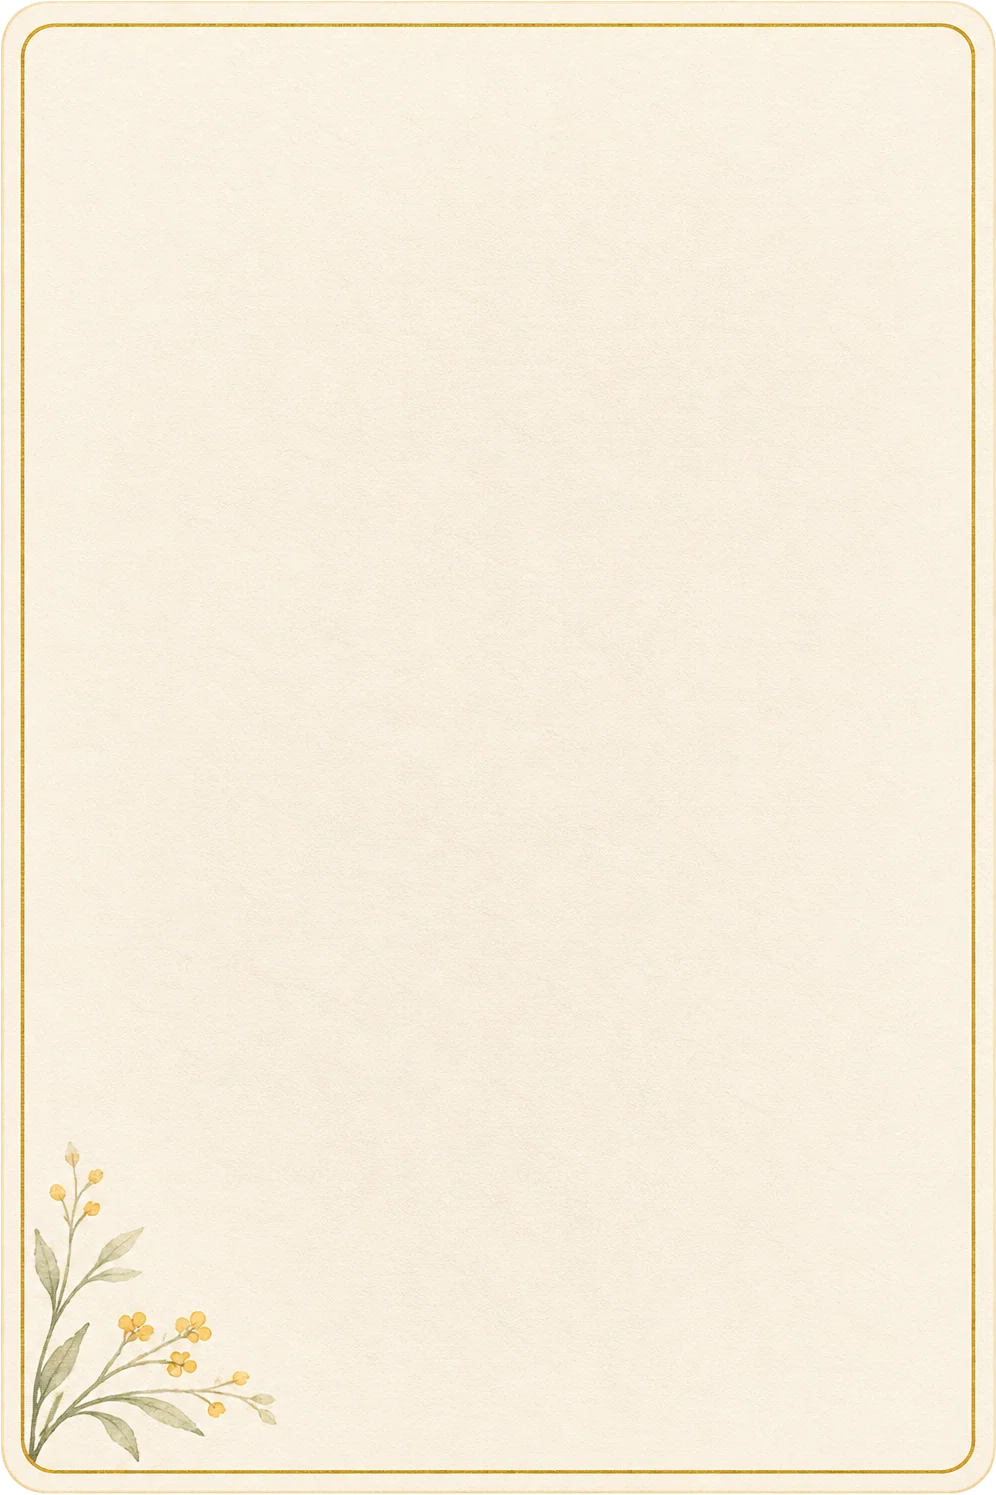
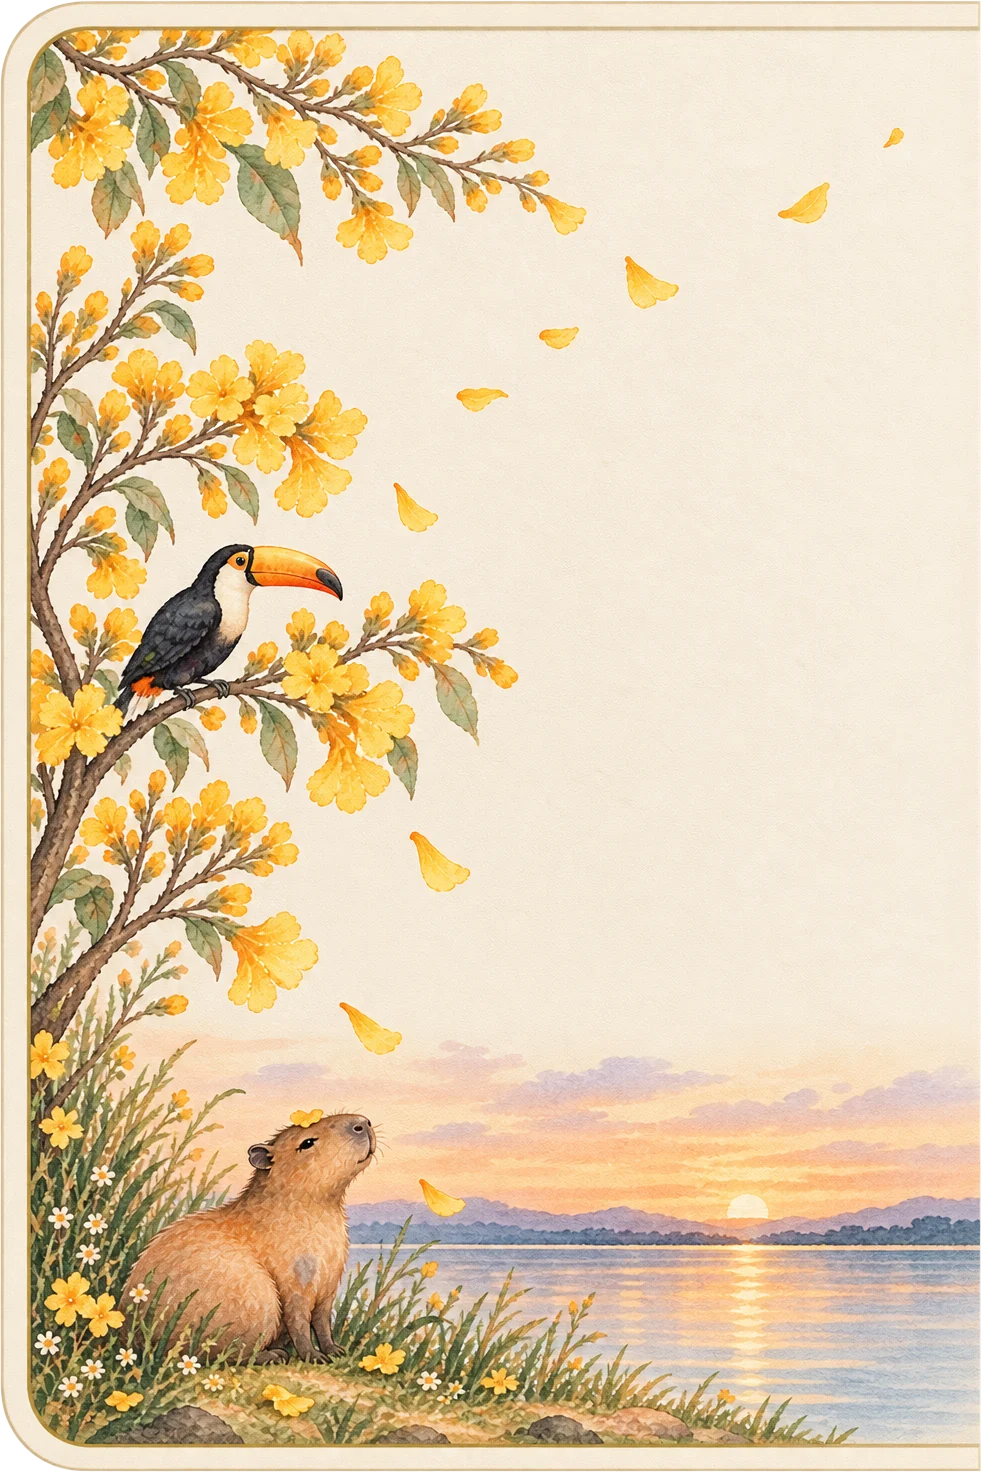
Passport: the final inside-cover art; a matching, art-free back board
- cover-inside.webp is the final art (ipê, toucan, capybara by the lake),
  shaped as the open board: shown as painted on the left board and on the
  cover's inside face — no CSS clipping or rounding of its own.
- back-board.webp: the same board mirrored, rebuilt from the art's turn-in
  band alone (no art can peek past the right pages). Both boards share
  size, band, corners and shadow; the clip on the back board matches the
  art's corner when open and follows the cover's while shut.
- Board and page radii run from the cover's corner (shut) to the board
  art's (open), pages concentric inside; phones keep all-round corners.

diff --git a/src/components/sections/passport/BrasiliaPassport.tsx b/src/components/sections/passport/BrasiliaPassport.tsx
@@ -17,7 +17,9 @@ import { vignetteAt, ease, PHASE, seg, TAB_OUT, type PassportGeometry, type Rect
 import { PassportCover } from './PassportCover'
 import { FlipBook, type FlipBookHandle } from './FlipBook'
 import {
-  Board,
+  BackBoard,
+  BOARD_CORNER,
+  InsideBoard,
   EntriesFrame,
   EntryItem,
   PAPER_BG,
@@ -188,6 +190,13 @@ export function BrasiliaPassport({
       if (!g || !root || !bookEl || !cover || !board || !title || !base || !chrome || !haze) return
       const inside = insideRef.current
       const vignette = vignetteRef.current
+      // Boards from the cover's corner (shut) to the board art's own (open);
+      // the pages concentric inside them.
+      const setRadii = (o: number) => {
+        const boardR = g.radius + (g.coverBox.w * BOARD_CORNER - g.radius) * o
+        bookEl.style.setProperty('--board-r', `${boardR.toFixed(2)}px`)
+        bookEl.style.setProperty('--page-r', `${(boardR - g.overhang).toFixed(2)}px`)
+      }
       const show = (el: HTMLElement | null, o: number) => {
         if (!el) return
         el.style.opacity = String(o)
@@ -204,6 +213,7 @@ export function BrasiliaPassport({
         show(base, 1)
         bookEl.style.setProperty('--bd', '0px')
         bookEl.style.setProperty('--open', '1')
+        setRadii(1)
         bookEl.style.setProperty('--ls', `${((g.overhang * 0.85) / 4).toFixed(2)}px`)
         show(inside, 1)
         chrome.style.opacity = '1'
@@ -287,6 +297,7 @@ export function BrasiliaPassport({
       // (so only a sliver following its curve shows at the bottom); open,
       // they square off to meet their mirror at the spine.
       bookEl.style.setProperty('--sr', `${(g.radius * (1 - o)).toFixed(2)}px`)
+      setRadii(o)
       // The pages too, at the spine, where they meet the cover's edge.
       if (spread)
         bookEl.style.setProperty('--spine-r', `${Math.max(2, g.radius * (1 - o)).toFixed(2)}px`)
@@ -327,7 +338,14 @@ export function BrasiliaPassport({
       // Phones: the inside of the cover is a page of its own, the same board
       // as the one under the pages, its corners round like theirs.
       return spread ? null : (
-        <Board rect={{ x: 0, y: 0, w: W, h: H }} side="right" r0={pageR} spineR={pageR} />
+        // As painted (round at its outer left), and round at the right too,
+        // where a page standing alone has no spine.
+        <div
+          className="absolute inset-0 overflow-hidden"
+          style={{ borderRadius: `0 ${W * BOARD_CORNER}px ${W * BOARD_CORNER}px 0` }}
+        >
+          <InsideBoard rect={{ x: 0, y: 0, w: W, h: H }} />
+        </div>
       )
     }
     const side: Side = spread && i % 2 === 0 ? 'left' : 'right'
@@ -357,10 +375,9 @@ export function BrasiliaPassport({
   const leftLines = spread ? Math.round(read * 4) : 0
   const rightLines = Math.round((1 - read) * 4)
   // Layers under the cover, all with corners concentric with its own: the
-  // pages (radius R - overhang), the page block (four steps reaching just
+  // pages (radius --page-r), the page block (four steps reaching just
   // past the cover's edge) and the back board (a little further).
   const R = g.radius
-  const pageR = R - g.overhang
   // While shut, the back board and the page block peek past the cover
   // (--bd, --ls: set by the scroll, back to flush as the book opens).
   const step = 'var(--ls, 1px)'
@@ -396,9 +413,8 @@ export function BrasiliaPassport({
           top: g.book.y,
           width: g.book.w,
           height: g.book.h,
-          ['--page-r' as string]: `${(g.radius - g.overhang).toFixed(2)}px`,
           // Phones: a page stands alone, round on every corner.
-          ['--spine-r' as string]: spread ? undefined : `${(g.radius - g.overhang).toFixed(2)}px`,
+          ['--spine-r' as string]: spread ? undefined : 'var(--page-r)',
           // Mild, so the turning cover barely grows past the book.
           perspective: W * 14,
           fontSize: g.fontSize,
@@ -438,7 +454,7 @@ export function BrasiliaPassport({
             (exactly where the turned cover came down). */}
         {spread && (
           <div ref={insideRef} className="absolute" style={{ ...box(g.insideBox), opacity: 0 }}>
-            <Board rect={insideRect} side="left" r0={R} />
+            <InsideBoard rect={insideRect} />
             {leftLines > 0 && (
               <div aria-hidden className="pointer-events-none absolute inset-0">
                 <PageStack
@@ -446,7 +462,7 @@ export function BrasiliaPassport({
                   side="left"
                   lines={leftLines}
                   step={step}
-                  r0={pageR}
+                  r0="var(--page-r)"
                 />
               </div>
             )}
@@ -455,20 +471,18 @@ export function BrasiliaPassport({
 
         {/* Under the cover: the back board, the page block, the pages. */}
         <div ref={baseRef} className="absolute inset-0" style={{ visibility: 'hidden' }}>
-          <Board
+          <BackBoard
             rect={g.coverBox}
-            side="right"
-            r0={R}
             d="var(--bd, 0px)"
-            spineR={spread ? 'var(--sr, 0px)' : R}
+            spineR={spread ? 'var(--sr, 0px)' : 'var(--board-r)'}
           />
           <PageStack
             page={g.right}
             side="right"
             lines={rightLines}
             step={step}
-            r0={pageR}
-            spineR={spread ? 'var(--sr, 0px)' : pageR}
+            r0="var(--page-r)"
+            spineR={spread ? 'var(--sr, 0px)' : 'var(--page-r)'}
           />
           {/* Index tabs: tucked in between the pages (the page block and the
               pages lie over their inner end), on the book's own paper. Only
@@ -555,7 +569,7 @@ export function BrasiliaPassport({
             className="absolute inset-0"
             style={{ ...hidden3d, transform: 'rotateY(180deg)', visibility: 'hidden' }}
           >
-            <Board rect={insideRect} side="left" r0={R} />
+            <InsideBoard rect={insideRect} />
           </div>
         </div>
       </div>

diff --git a/src/components/sections/passport/Pages.tsx b/src/components/sections/passport/Pages.tsx
@@ -94,11 +94,11 @@ export function layer(
   r: Rect,
   side: Side,
   d: string,
-  r0: number,
+  r0: number | string,
   spineR: number | string = 0
 ): CSSProperties {
   const g = (n: number) => `${n.toFixed(2)}px`
-  const out = `calc(${g(r0)} + ${d})`
+  const out = `calc(${typeof r0 === 'number' ? g(r0) : r0} + ${d})`
   const sp = typeof spineR === 'number' ? g(spineR) : spineR
   return {
     left: side === 'right' ? r.x : `calc(${g(r.x)} - ${d})`,
@@ -130,7 +130,7 @@ export function PageStack({
   side: Side
   lines: number
   step: string
-  r0: number
+  r0: number | string
   spineR?: number | string
 }) {
   return (
@@ -150,51 +150,59 @@ export function PageStack({
   )
 }
 
+/** Corner radius of the board art (cover-inside.webp), as a fraction of its width: 88 / 981. */
+export const BOARD_CORNER = 0.09
+
 /**
- * A board of the book — the ONE way both are drawn, so they are mirror
- * images: the inside of the front cover (lying open, left of the spine) and
- * the back board (under the right pages). Light board from cover-inside.webp,
- * mirrored on the right (its rule is the edge; its sprig lands on the left
- * board's outer bottom corner and hides under the pages on the right),
- * square at the spine, round outer corners (`r0`). `d` grows it past the
- * cover's edge while the book is shut (see `layer`).
+ * The inside of the front cover (left of the spine, open): cover-inside.webp
+ * exactly as painted — its own rounded outer corners, square at the spine,
+ * its turn-in band. No clipping; the shadow follows its shape.
  */
-export function Board({
-  rect,
-  side,
-  r0,
-  d = '0px',
-  spineR = 0,
-  children,
-}: {
-  rect: Rect
-  side: Side
-  r0: number
-  d?: string
-  /** Radius at the spine: 0 in an open spread; rounded when shut or alone (phones). */
-  spineR?: number | string
-  children?: ReactNode
-}) {
+export function InsideBoard({ rect, children }: { rect: Rect; children?: ReactNode }) {
+  const r = rect.w * BOARD_CORNER
   return (
-    <div
-      className="absolute overflow-hidden"
-      style={{
-        ...layer(rect, side, d, r0, spineR),
-        // Only once open (--open): shut, the cover casts the book's shadow.
-        boxShadow: '0 18px 34px -18px rgba(110, 78, 30, calc(0.35 * var(--open, 1)))',
-      }}
-    >
+    <div className="absolute" style={{ left: rect.x, top: rect.y, width: rect.w, height: rect.h }}>
       <div
         aria-hidden
         className="absolute inset-0"
         style={{
-          // Its own printed rule is the board's edge; the cream beneath
-          // squares off its rounded spine corners.
-          background: `url(${ASSETS.coverInside}) center / 100% 100% no-repeat, ${BOARD_CREAM}`,
-          transform: side === 'right' ? 'scaleX(-1)' : undefined,
+          borderRadius: `${r}px 0 0 ${r}px`,
+          boxShadow: '0 18px 34px -18px rgba(110, 78, 30, calc(0.35 * var(--open, 1)))',
         }}
       />
+      <div
+        aria-hidden
+        className="absolute inset-0"
+        style={{ background: `url(${ASSETS.coverInside}) center / 100% 100% no-repeat` }}
+      />
       {children && <div className="relative h-full">{children}</div>}
+    </div>
+  )
+}
+
+/**
+ * The back board, under the right pages: the mirror of the inside board —
+ * same size, band, corners and shadow — without its art (back-board.webp,
+ * built from the band alone). Open, its own shape shows (the clip, at
+ * --board-r, matches it); shut, it grows by `d` past the cover and rounds
+ * with it (see `layer`), cream filling its corners.
+ */
+export function BackBoard({ rect, d, spineR }: { rect: Rect; d: string; spineR: number | string }) {
+  return (
+    <div
+      aria-hidden
+      className="pointer-events-none absolute overflow-hidden"
+      style={{
+        ...layer(rect, 'right', d, 'var(--board-r)', spineR),
+        boxShadow: '0 18px 34px -18px rgba(110, 78, 30, calc(0.35 * var(--open, 1)))',
+      }}
+    >
+      <div
+        className="absolute inset-0"
+        style={{
+          background: `url(${ASSETS.backBoard}) center / 100% 100% no-repeat, ${BOARD_CREAM}`,
+        }}
+      />
     </div>
   )
 }

diff --git a/src/components/sections/passport/assets.ts b/src/components/sections/passport/assets.ts
@@ -102,6 +102,8 @@ export const ASSETS = {
   // Inside of the front cover: artwork only, shown full-bleed with no text.
   // A placeholder — the final, more elaborate inside-cover art replaces it.
   coverInside: passport('cover-inside.webp'),
+  /** The back board: cover-inside.webp's band, mirrored, no art. */
+  backBoard: passport('back-board.webp'),
   paper: passport('paper.webp'),
   blotMask: MASK.blot.image,
   // One per chapter opener; their soft watercolor edges are in the art.
